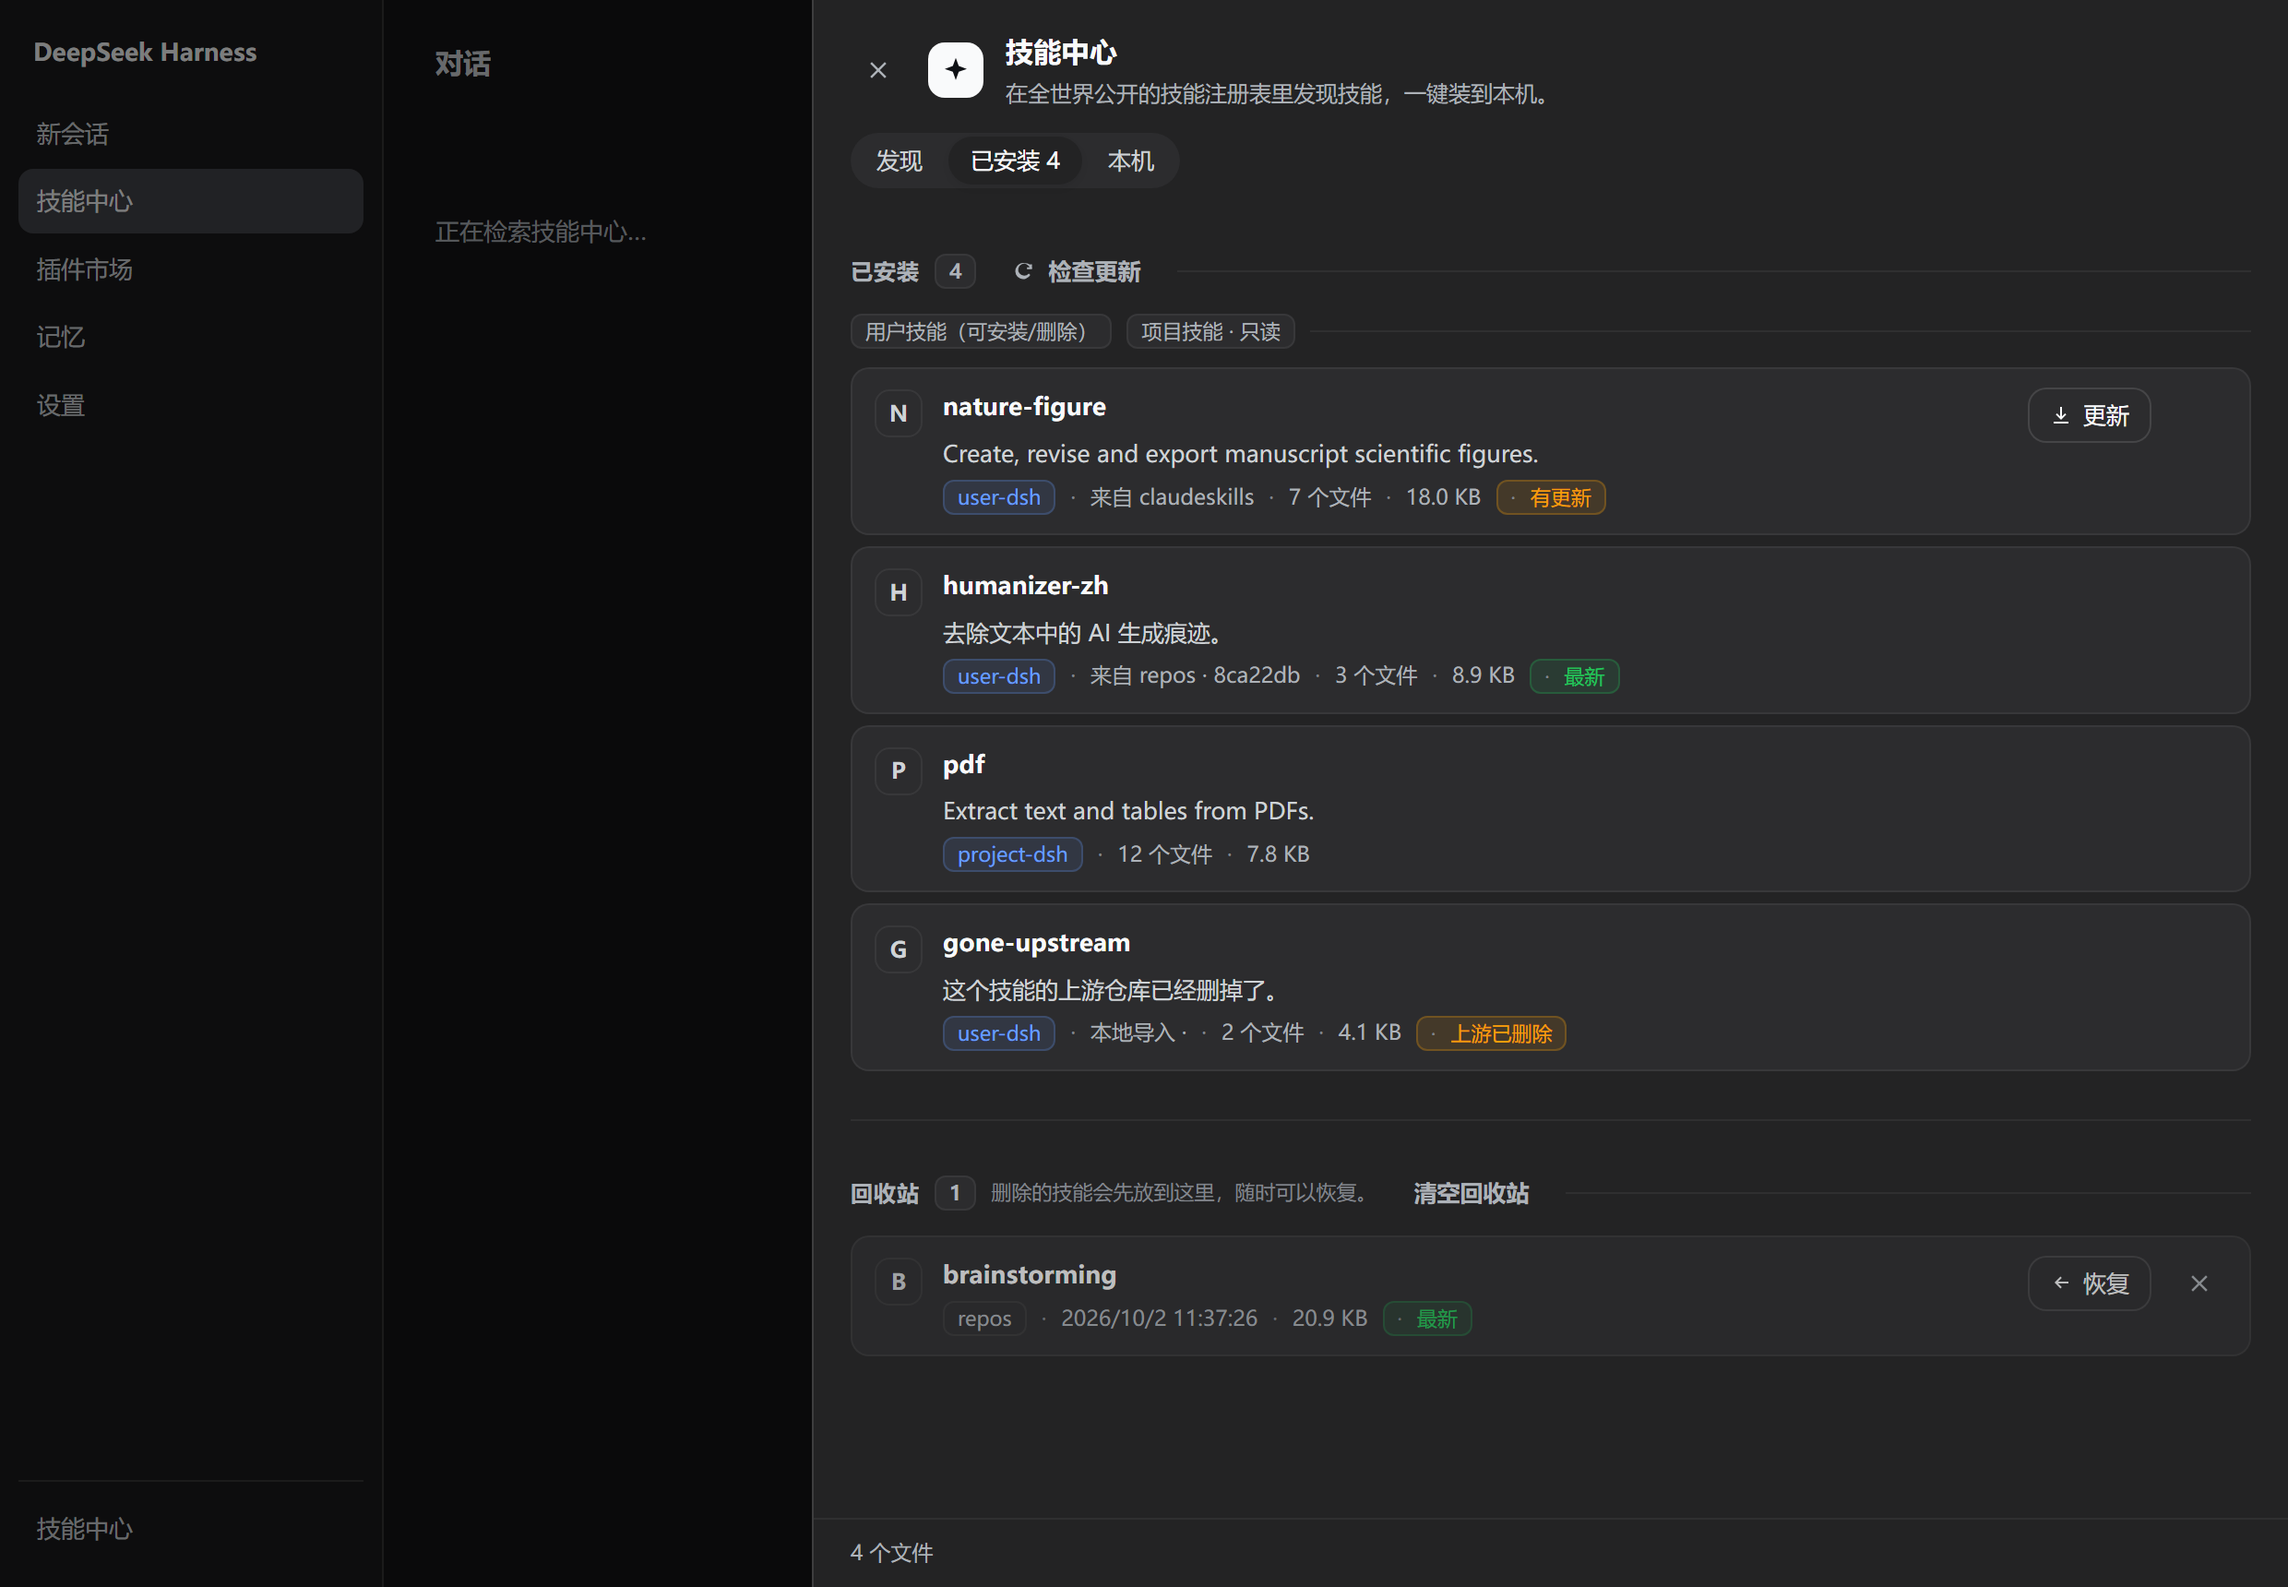
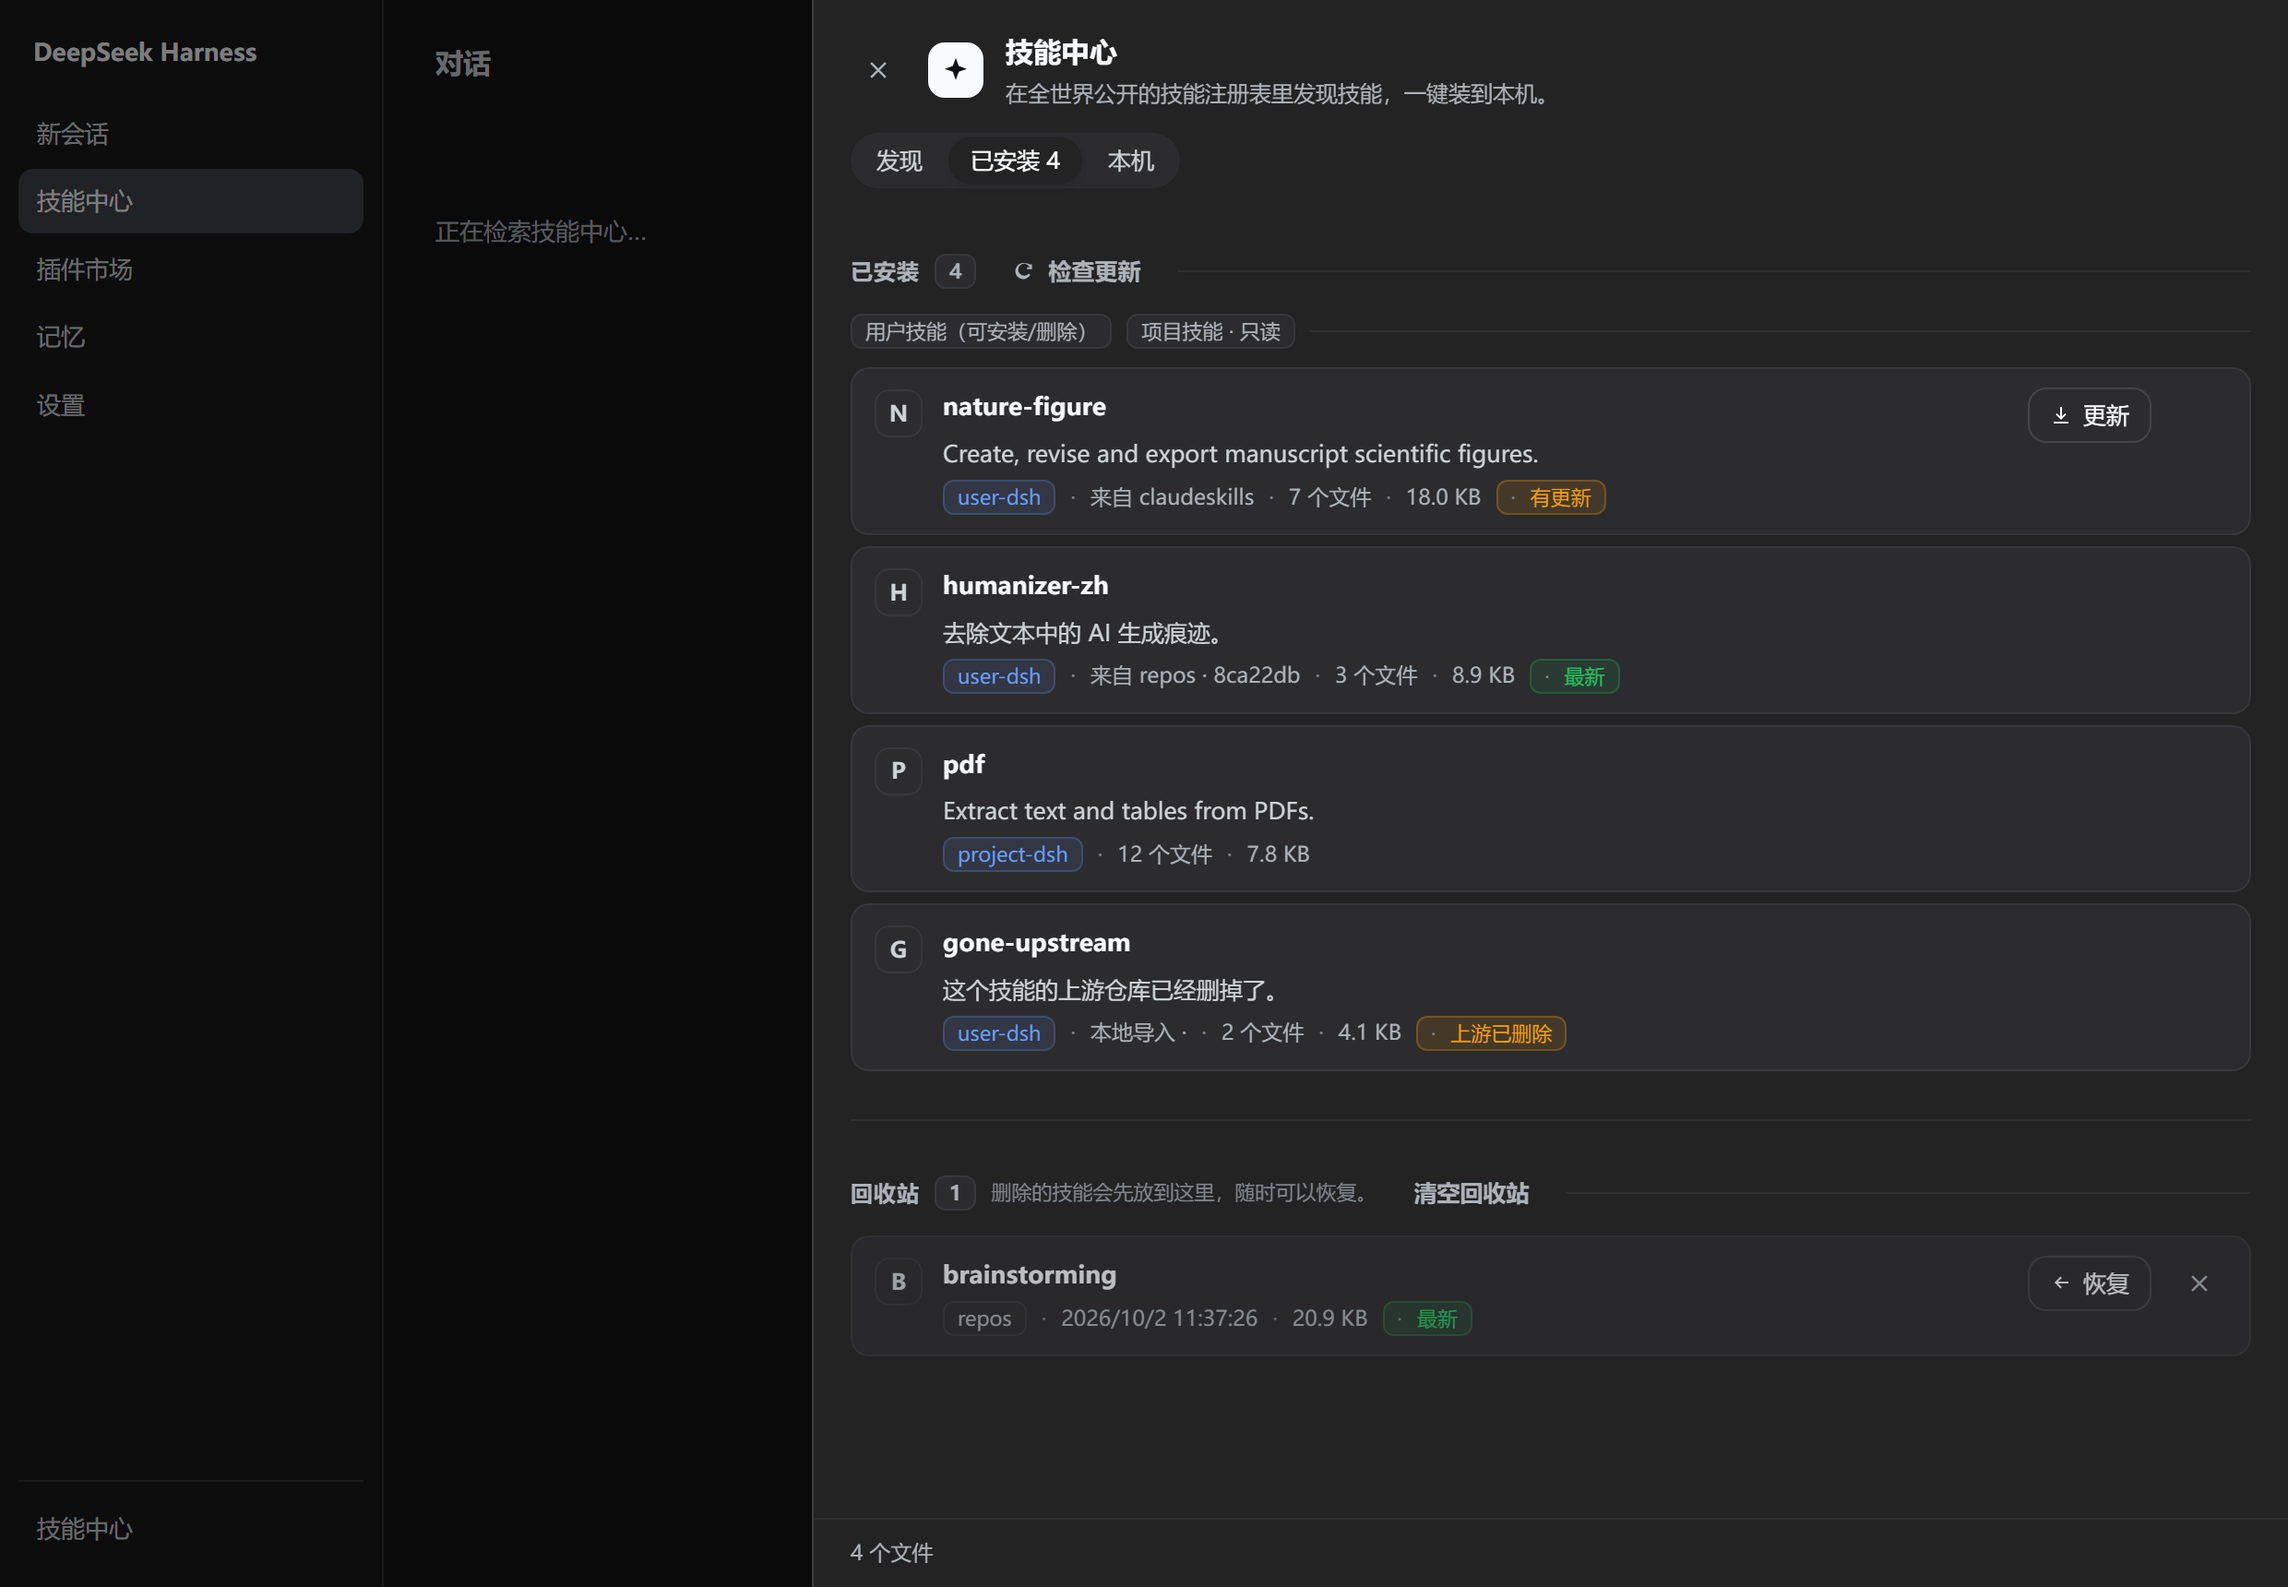
Let the settings page keep its own background
The panel mounts in two places: into .sc-drawer for the sidebar drawer, and
standalone for the settings page. The drawer is this plugin's own strip of
screen, so the glass fix gave it an opaque plate. It gave the same plate to
.sc-root, and that was wrong -- not in the drawer, where .sc-root sits inside
.sc-drawer and the second coat is merely redundant, but in Settings, where
.sc-root is the outermost element and the dialog behind it belongs to the host.
There the panel laid a white rectangle with square corners over the settings
dialog, square enough to spill out past the dialog's own rounded corner.

So the plate lives on .sc-drawer alone and .sc-root paints nothing: the drawer
paints itself, the settings page is painted by its host.

probe-glass gets the mirror assertion. It already asked whether the drawer is
opaque under glass; it now also asks whether the settings root computes to
rgba(0, 0, 0, 0), which is the same question about ownership from the other
side. An opacity fix without the mirror check can only ratchet opacity up.
Twelve checks now, up from ten.

Screenshots regenerated. The drawer shots move by at most 42/255 on 1.3% of
pixels, all of it text antialiasing: Chrome rasterises glyphs differently once
the layer underneath is no longer known-opaque. Nothing moved on screen.

Changed region(s): [[0.4347, 0.6163, 0.4968, 0.6471], [0.4347, 0.1849, 0.4657, 0.2157], [0.4347, 0.0308, 0.4657, 0.0616]]

diff --git a/client/client.js b/client/client.js
@@ -372,7 +372,13 @@ body[data-ds-dark-theme] .sc-scope { --sc-plate: var(--dsw-static-neutral-bluish
   box-shadow: var(--dsw-shadow-lv3, -18px 0 48px rgba(0,0,0,.18));
   animation: sc-slide .2s cubic-bezier(.22,.61,.36,1);
 }
-.sc-root { display: flex; flex-direction: column; height: 100%; min-height: 0; background: var(--sc-solid); }
+/* The root paints nothing. A surface belongs to whoever owns the screen estate:
+   in the drawer that is sc-drawer below, and in the settings page it is the
+   host's own panel -- the panel is a guest there. Painting one here as well drew
+   a white rectangle with square corners on top of the settings dialog, square
+   enough to spill past the dialog's own rounded corner. So the plate lives on
+   the drawer only, and the inline panel stays see-through. */
+.sc-root { display: flex; flex-direction: column; height: 100%; min-height: 0; }
 .sc-grow { flex: 1; min-width: 0; }
 
 /* ---------------------------------------------------------------- header */
